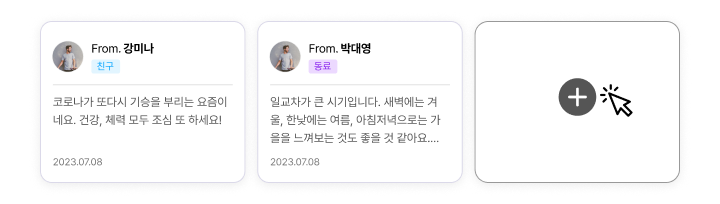
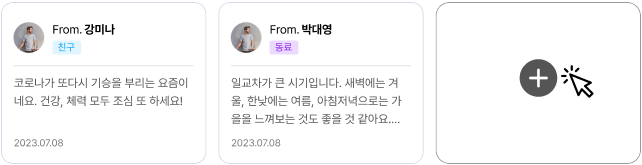
💄 메인페이지 태블릿 레이아웃 적용

diff --git a/src/components/SiteInfo.jsx b/src/components/SiteInfo.jsx
@@ -2,6 +2,7 @@ import React from 'react';
 import { styled } from 'styled-components';
 import siteImage1 from '../assets/siteInfo1.png';
 import siteImage2 from '../assets/siteInfo2.png';
+import device from '../config';
 
 const TITLE = [
   '',
@@ -15,35 +16,44 @@ const MESSAGE = [
   '롤링 페이퍼에 이모지를 추가할 수 있어요',
 ];
 
-function SiteInfo({ order }) {
-  let hasGap = true;
-  if (order !== 1) {
-    hasGap = false;
-  }
-  const point = `Point. 0${order}`;
+function NewLine({ sentence }) {
+  sentence = sentence.split('\n');
   return (
-    <SiteInfoWrapper $hasGap={hasGap}>
-      {order === 2 ? <img src={siteImage2} alt="이모지 추가" /> : null}
-      <div className="description">
-        <div className="point">{point}</div>
-        <h2 className="title">{TITLE[order]}</h2>
-        <p className="message">{MESSAGE[order]}</p>
-      </div>
-      {order === 1 ? <img src={siteImage1} alt="롤링 페이퍼 만들기" /> : null}
-    </SiteInfoWrapper>
+    <>
+      <span>{sentence[0]}</span>
+      <br />
+      <span>{sentence[1]}</span>
+    </>
   );
 }
 
-const SiteInfoWrapper = styled.div`
-  width: 1200px;
+function SiteInfo({ order }) {
+  const point = `Point. 0${order}`;
+  return (
+    <Container order={order}>
+      <div className="description">
+        <div className="point">{point}</div>
+        {/* <h2 className="title">{TITLE[order]}</h2> */}
+        <h2 className="title">
+          <NewLine sentence={TITLE[order]} />
+        </h2>
+        <p className="message">{MESSAGE[order]}</p>
+      </div>
+      {order === 1 ? <img src={siteImage1} alt="롤링 페이퍼 만들기" /> : null}
+      {order === 2 ? <img src={siteImage2} alt="이모지 추가" /> : null}
+    </Container>
+  );
+}
+
+const Container = styled.div`
   display: flex;
-  justify-content: ${({ $hasGap }) => ($hasGap ? 'flex-end' : 'flex-start')};
+  flex-direction: ${({ order }) => (order === 1 ? 'row' : 'row-reverse')};
+  justify-content: flex-end;
   align-items: center;
-  padding: 60px 0 60px 0;
-  gap: ${({ $hasGap }) => ($hasGap ? 50 : 0)}px;
+  padding: 60px 50px;
+  gap: 50px;
   border-radius: 16px;
   background: var(--Surface);
-  white-space: pre-line;
 
   .description {
     display: flex;
@@ -73,6 +83,20 @@ const SiteInfoWrapper = styled.div`
       font-size: 18px;
       line-height: 28px;
       color: var(--Gray-500);
+    }
+  }
+
+  @media ${device.pc_small} {
+    flex-direction: column;
+    justify-content: center;
+    width: 90vw;
+
+    .description {
+      width: 100%;
+
+      .title br {
+        display: none;
+      }
     }
   }
 `;

diff --git a/src/pages/MainPage.jsx b/src/pages/MainPage.jsx
@@ -3,6 +3,7 @@ import { styled } from 'styled-components';
 import GlobalNav from '../components/GlobalNav';
 import SiteInfo from '../components/SiteInfo';
 import Button from '../components/Button';
+import device from '../config';
 
 function MainPage() {
   return (
@@ -13,7 +14,7 @@ function MainPage() {
           <SiteInfo order={1} />
           <SiteInfo order={2} />
         </SiteInfoWrapper>
-        <Button size={280} type={56}>
+        <Button className="readMore" size={280} type={56}>
           구경해보기
         </Button>
       </Content>
@@ -26,14 +27,19 @@ const Content = styled.div`
   flex-direction: column;
   justify-content: center;
   align-items: center;
-  padding-top: 50px;
+  padding: 50px 30px;
   gap: 30px;
+
+  @media ${device.pc_small} {
+    .readMore {
+      width: 90vw;
+    }
+  }
 `;
 
 const SiteInfoWrapper = styled.div`
   display: flex;
   flex-direction: column;
-  width: 1200px;
   gap: 30px;
 `;
 

diff --git a/src/config.js b/src/config.js
@@ -1,4 +1,5 @@
 const device = {
+  pc_small: '(max-width: 1248px)',
   tablet: '(max-width: 1024px)',
   mobile: '(max-width: 768px)',
 };
